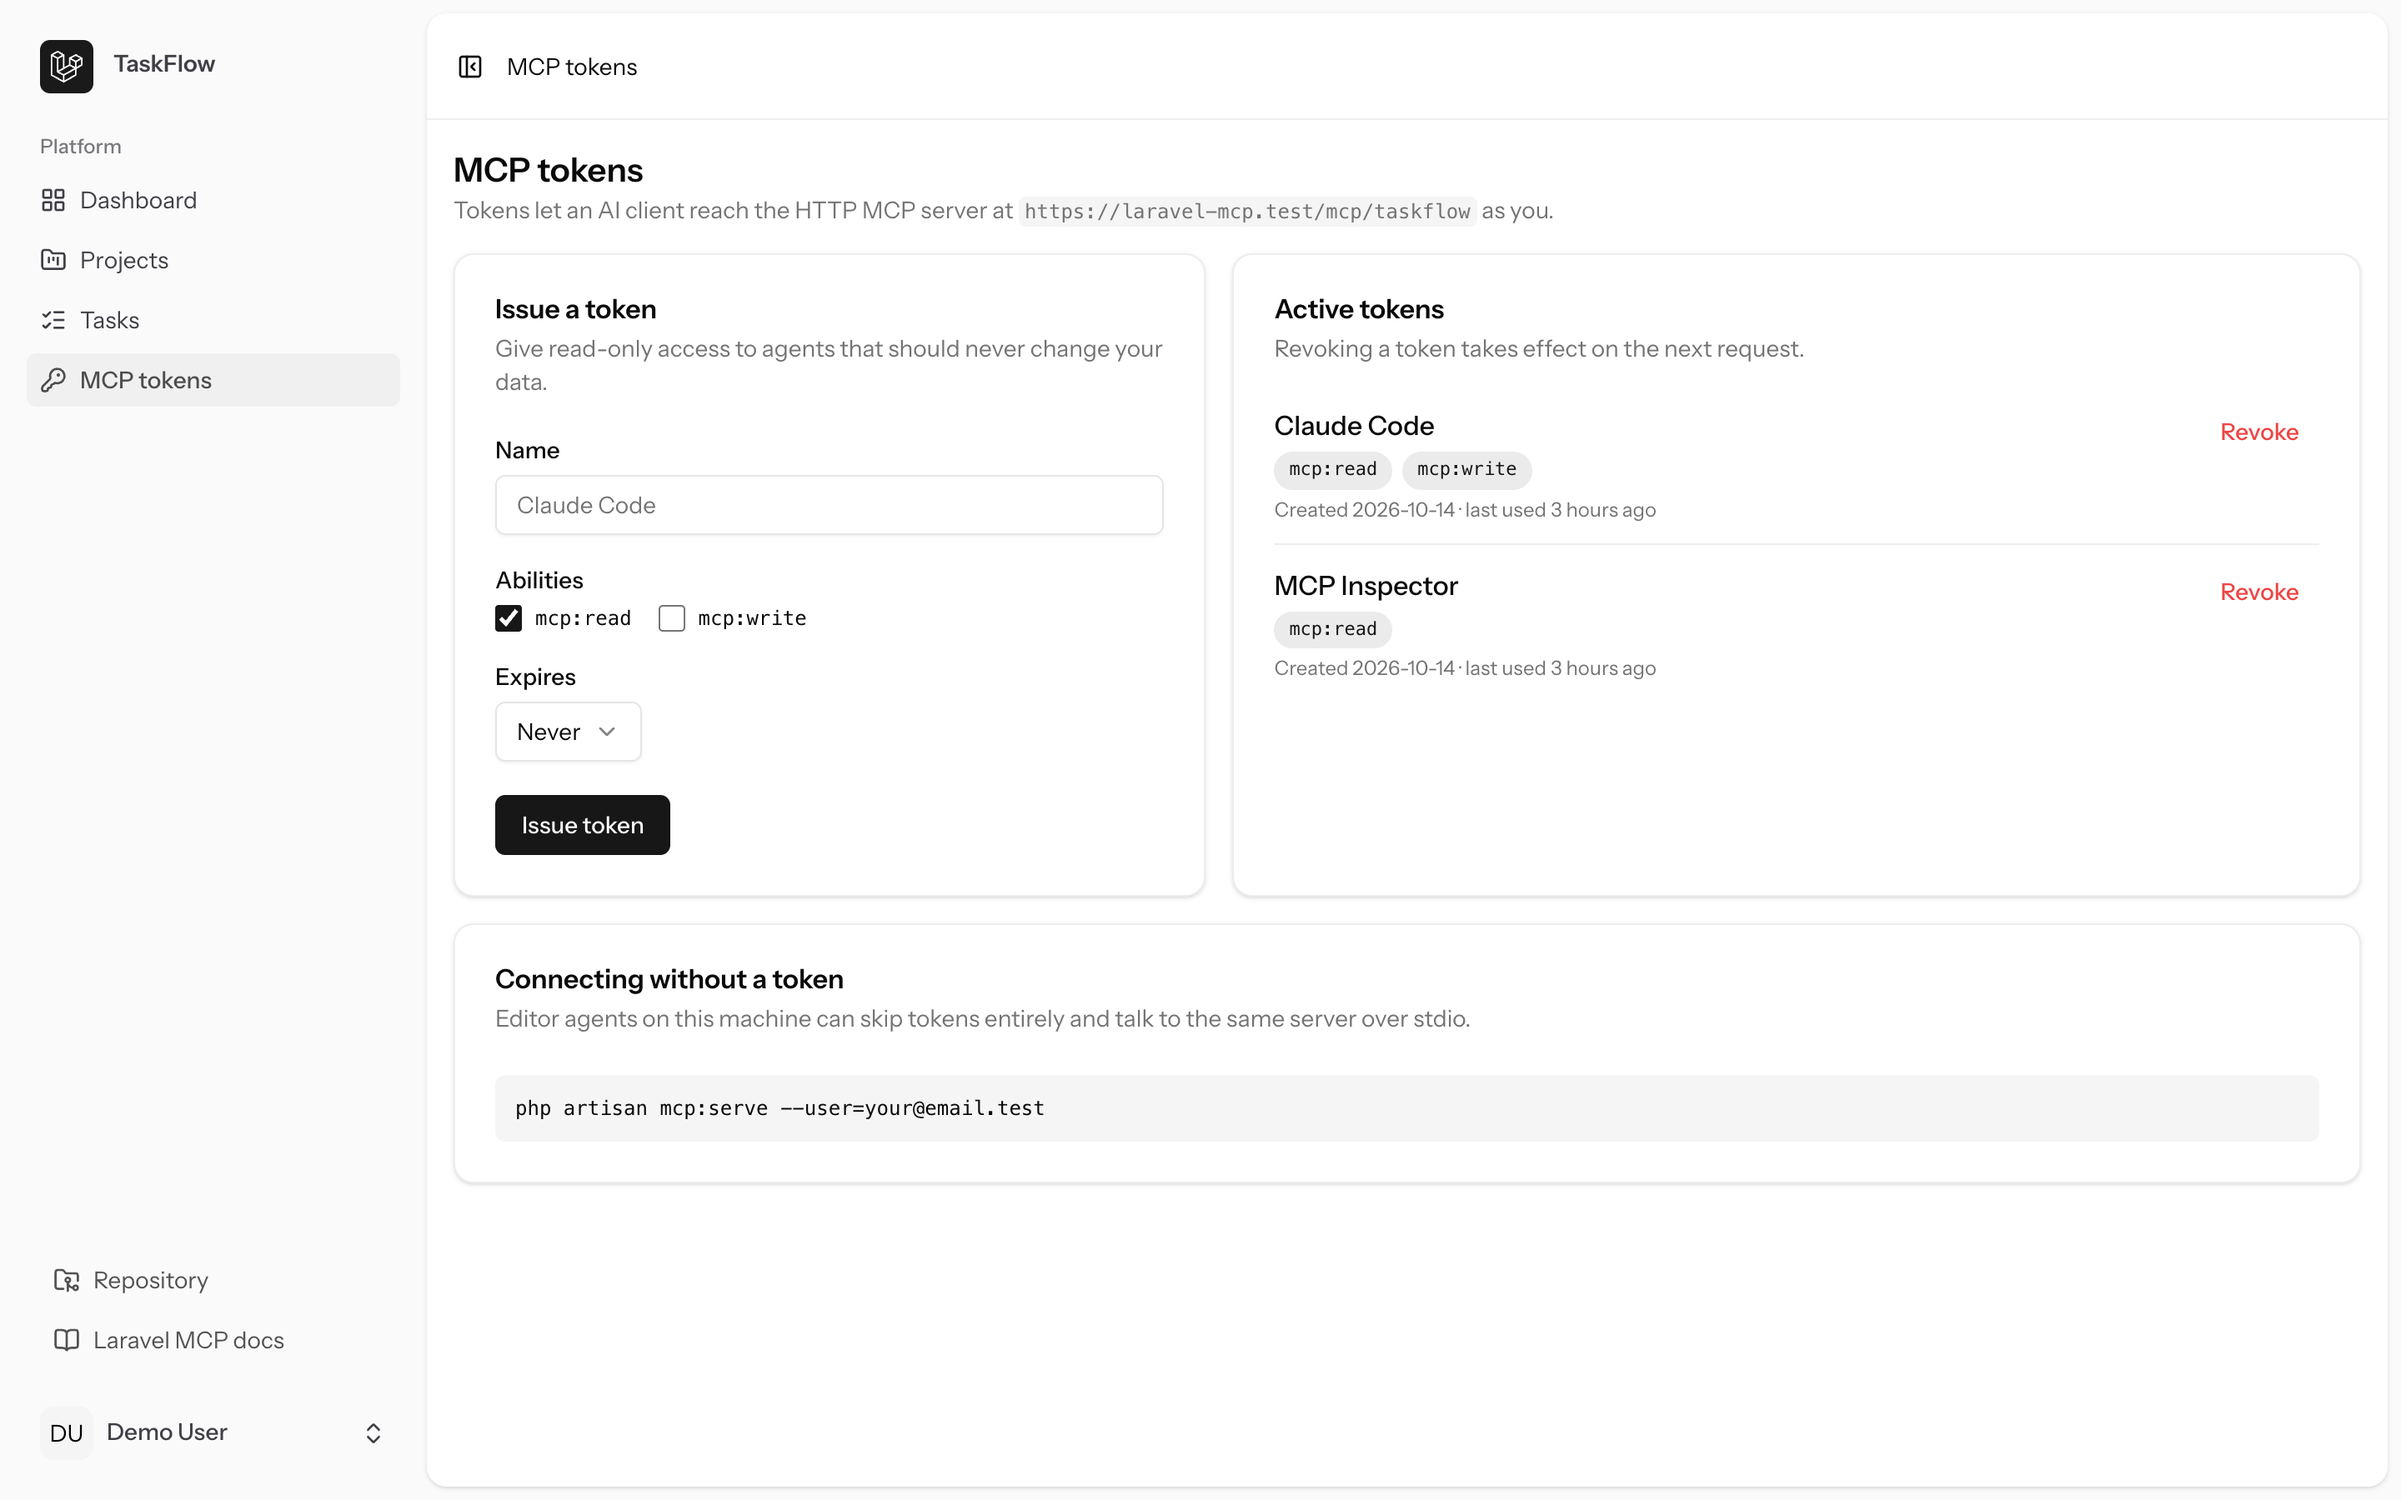
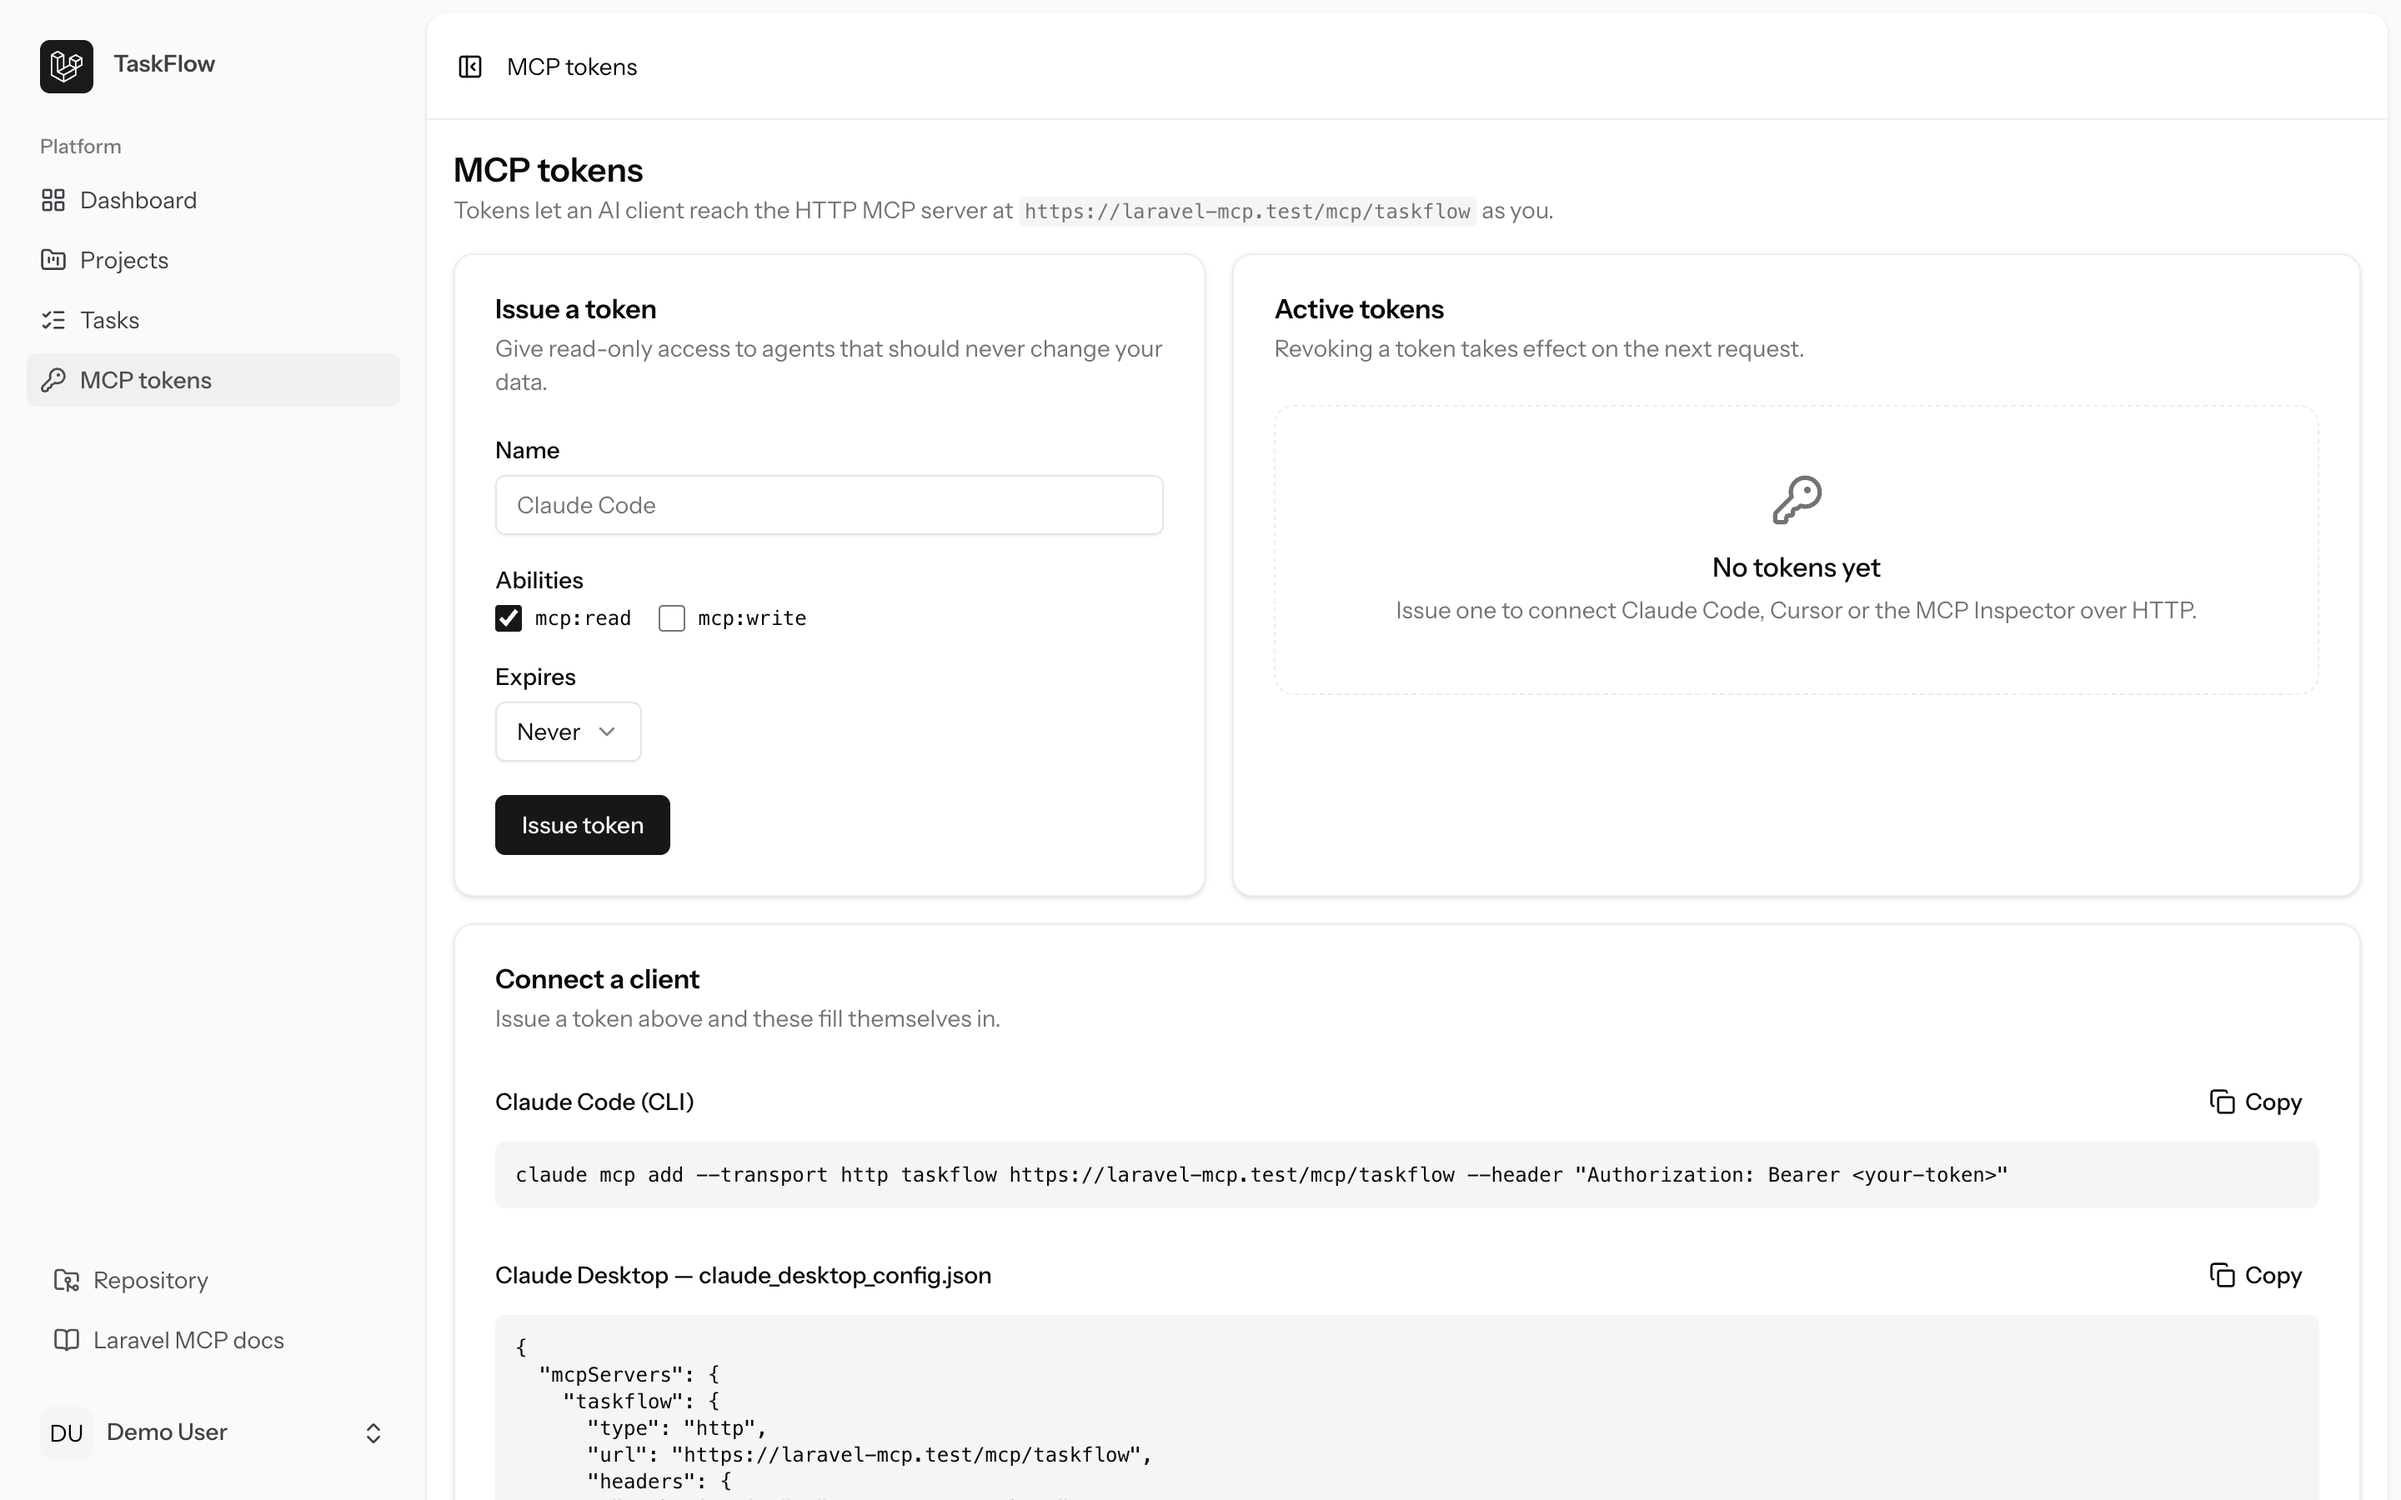
feat: hand the user ready-to-paste client snippets
Connecting used to mean copying a token and then writing the client
configuration by hand, which is where the path and transport mistakes
happen. The tokens page now renders three filled-in snippets: the
`claude mcp add` one-liner, the claude_desktop_config.json block, and a
stdio block carrying this machine's absolute PHP binary — resolved server
side, because GUI clients do not inherit the shell PATH and a bare "php"
would not resolve for them.

diff --git a/resources/js/pages/mcp-tokens/Index.vue b/resources/js/pages/mcp-tokens/Index.vue
@@ -3,6 +3,7 @@ import { Form, Head, router } from '@inertiajs/vue3';
 import { Check, Copy, KeyRound, ShieldCheck } from '@lucide/vue';
 import { computed, ref } from 'vue';
 import TokenController from '@/actions/App/Http/Controllers/Mcp/TokenController';
+import CopyBlock from '@/components/CopyBlock.vue';
 import EmptyState from '@/components/EmptyState.vue';
 import InputError from '@/components/InputError.vue';
 import { Alert, AlertDescription, AlertTitle } from '@/components/ui/alert';
@@ -54,10 +55,20 @@ const props = defineProps<{
     abilityOptions: string[];
     endpoint: string;
     newToken: string | null;
+    phpBinary: string;
+    artisanPath: string;
+    userEmail: string;
 }>();
 
 const expiry = ref('never');
 const copied = ref<'token' | 'config' | null>(null);
+
+const token = computed(() => props.newToken ?? '<your-token>');
+
+const cliCommand = computed(
+    () =>
+        `claude mcp add --transport http taskflow ${props.endpoint} --header "Authorization: Bearer ${token.value}"`,
+);
 
 const clientConfig = computed(() =>
     JSON.stringify(
@@ -66,9 +77,26 @@ const clientConfig = computed(() =>
                 taskflow: {
                     type: 'http',
                     url: props.endpoint,
-                    headers: {
-                        Authorization: `Bearer ${props.newToken ?? '<token>'}`,
-                    },
+                    headers: { Authorization: `Bearer ${token.value}` },
+                },
+            },
+        },
+        null,
+        2,
+    ),
+);
+
+const stdioConfig = computed(() =>
+    JSON.stringify(
+        {
+            mcpServers: {
+                taskflow: {
+                    command: props.phpBinary,
+                    args: [
+                        props.artisanPath,
+                        'mcp:serve',
+                        `--user=${props.userEmail}`,
+                    ],
                 },
             },
         },
@@ -147,27 +175,10 @@ const confirmRevoke = () => {
                     </Button>
                 </div>
 
-                <details class="rounded-md border p-3">
-                    <summary class="cursor-pointer text-sm font-medium">
-                        Client configuration
-                    </summary>
-                    <pre
-                        class="mt-3 overflow-x-auto rounded-md bg-muted p-3 font-mono text-xs"
-                        >{{ clientConfig }}</pre>
-                    <Button
-                        type="button"
-                        size="sm"
-                        variant="outline"
-                        class="mt-3"
-                        @click="copy('config', clientConfig)"
-                    >
-                        <component
-                            :is="copied === 'config' ? Check : Copy"
-                            class="size-4"
-                        />
-                        {{ copied === 'config' ? 'Copied' : 'Copy config' }}
-                    </Button>
-                </details>
+                <CopyBlock
+                    label="Claude Code — one command"
+                    :code="cliCommand"
+                />
             </AlertDescription>
         </Alert>
 
@@ -354,17 +365,30 @@ const confirmRevoke = () => {
 
         <Card>
             <CardHeader>
-                <CardTitle>Connecting without a token</CardTitle>
+                <CardTitle>Connect a client</CardTitle>
                 <CardDescription>
-                    Editor agents on this machine can skip tokens entirely and
-                    talk to the same server over stdio.
+                    Issue a token above and these fill themselves in.
                 </CardDescription>
             </CardHeader>
-            <CardContent>
-                <pre
-                    class="overflow-x-auto rounded-md bg-muted p-3 font-mono text-xs"
-                >
-php artisan mcp:serve --user=your@email.test</pre>
+            <CardContent class="space-y-6">
+                <CopyBlock label="Claude Code (CLI)" :code="cliCommand" />
+
+                <CopyBlock
+                    label="Claude Desktop — claude_desktop_config.json"
+                    :code="clientConfig"
+                />
+
+                <div class="space-y-2">
+                    <p class="text-sm text-muted-foreground">
+                        On this machine you can skip tokens entirely: the stdio
+                        transport runs the server as a local process, so there
+                        is no URL, no token and no certificate to trust.
+                    </p>
+                    <CopyBlock
+                        label="Any MCP client — stdio, no token"
+                        :code="stdioConfig"
+                    />
+                </div>
             </CardContent>
         </Card>
     </div>

diff --git a/resources/js/components/CopyBlock.vue b/resources/js/components/CopyBlock.vue
@@ -1,0 +1,37 @@
+<script setup lang="ts">
+import { Check, Copy } from '@lucide/vue';
+import { ref } from 'vue';
+import { Button } from '@/components/ui/button';
+
+defineProps<{
+    code: string;
+    label?: string;
+}>();
+
+const copied = ref(false);
+
+const copy = async (code: string) => {
+    await navigator.clipboard.writeText(code);
+    copied.value = true;
+
+    window.setTimeout(() => {
+        copied.value = false;
+    }, 2000);
+};
+</script>
+
+<template>
+    <div class="space-y-2">
+        <div v-if="label" class="flex items-center justify-between gap-2">
+            <p class="text-sm font-medium">{{ label }}</p>
+            <Button type="button" size="sm" variant="ghost" @click="copy(code)">
+                <component :is="copied ? Check : Copy" class="size-4" />
+                {{ copied ? 'Copied' : 'Copy' }}
+            </Button>
+        </div>
+
+        <pre
+            class="overflow-x-auto rounded-md bg-muted p-3 font-mono text-xs"
+        ><code>{{ code }}</code></pre>
+    </div>
+</template>

diff --git a/app/Http/Controllers/Mcp/TokenController.php b/app/Http/Controllers/Mcp/TokenController.php
@@ -10,6 +10,7 @@ use Illuminate\Http\Request;
 use Inertia\Inertia;
 use Inertia\Response;
 use Laravel\Sanctum\PersonalAccessToken;
+use Symfony\Component\Process\PhpExecutableFinder;
 
 class TokenController extends Controller
 {
@@ -35,9 +36,27 @@ class TokenController extends Controller
                 ->all(),
             'abilityOptions' => $this->mcpAbilities(),
             'endpoint' => route('mcp.taskflow'),
+            // Everything the connection snippets need, resolved server side so
+            // the user can paste them without editing paths by hand.
+            'phpBinary' => $this->phpBinary(),
+            'artisanPath' => base_path('artisan'),
+            'userEmail' => $request->user()->email,
             // Shown once, immediately after the token is issued.
             'newToken' => $request->session()->get('mcpToken'),
         ]);
+    }
+
+    /**
+     * Get the absolute path of the PHP CLI binary, for the stdio snippet.
+     *
+     * GUI clients do not inherit the shell PATH, so a bare "php" would not
+     * resolve for them.
+     */
+    protected function phpBinary(): string
+    {
+        $finder = (new PhpExecutableFinder)->find();
+
+        return is_string($finder) && ! str_contains($finder, 'fpm') ? $finder : 'php';
     }
 
     /**

diff --git a/README.md b/README.md
@@ -114,9 +114,11 @@ claude mcp add taskflow -- php /absolute/path/to/laravel-mcp/artisan mcp:serve -
 
 ### Over HTTP with a Sanctum token
 
-Issue, inspect and revoke tokens from the **MCP tokens** page in the app: it
-shows the plain text token exactly once, together with a ready-to-paste client
-configuration, and lists each token's abilities and last use.
+Issue, inspect and revoke tokens from the **MCP tokens** page in the app. It
+shows the plain text token exactly once and fills in three copy-ready snippets
+with it — the `claude mcp add` one-liner, the `claude_desktop_config.json`
+block, and a stdio block with this machine's absolute PHP path — so connecting
+a client is a copy and a paste.
 
 The same thing from the command line:
 
